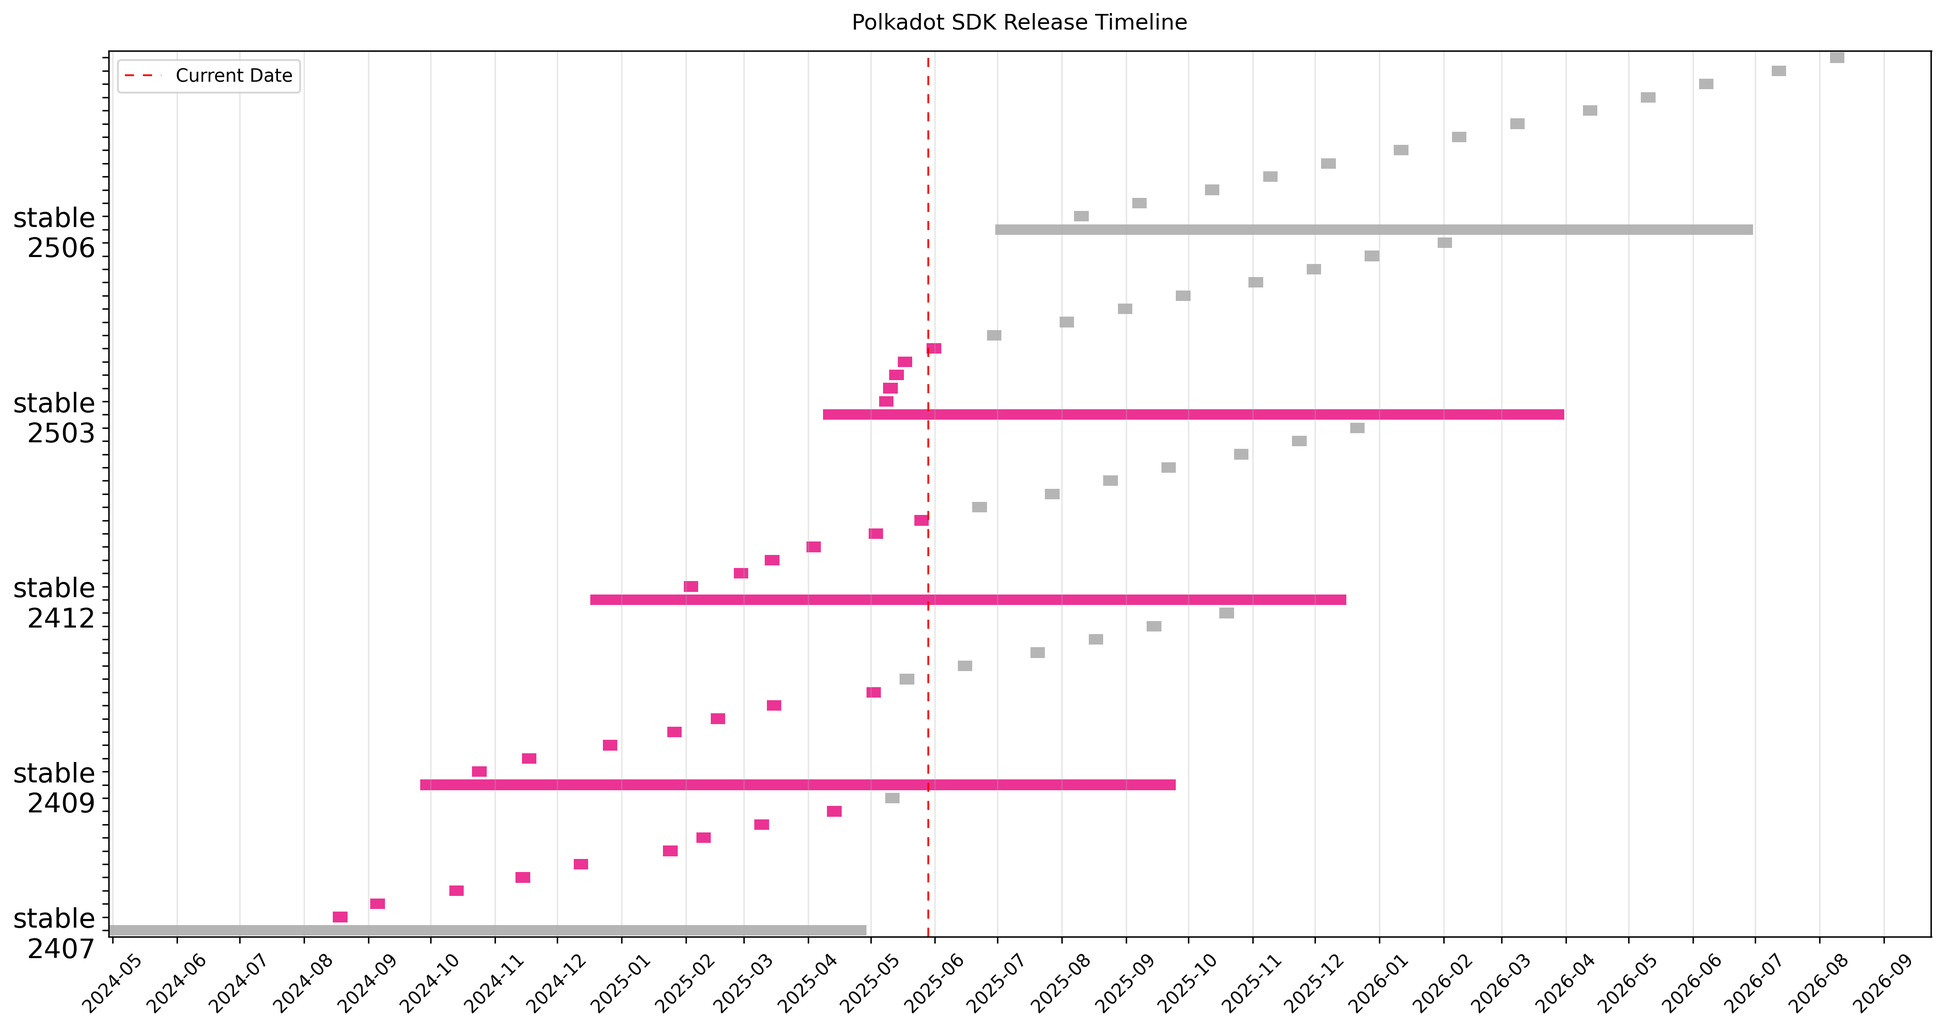
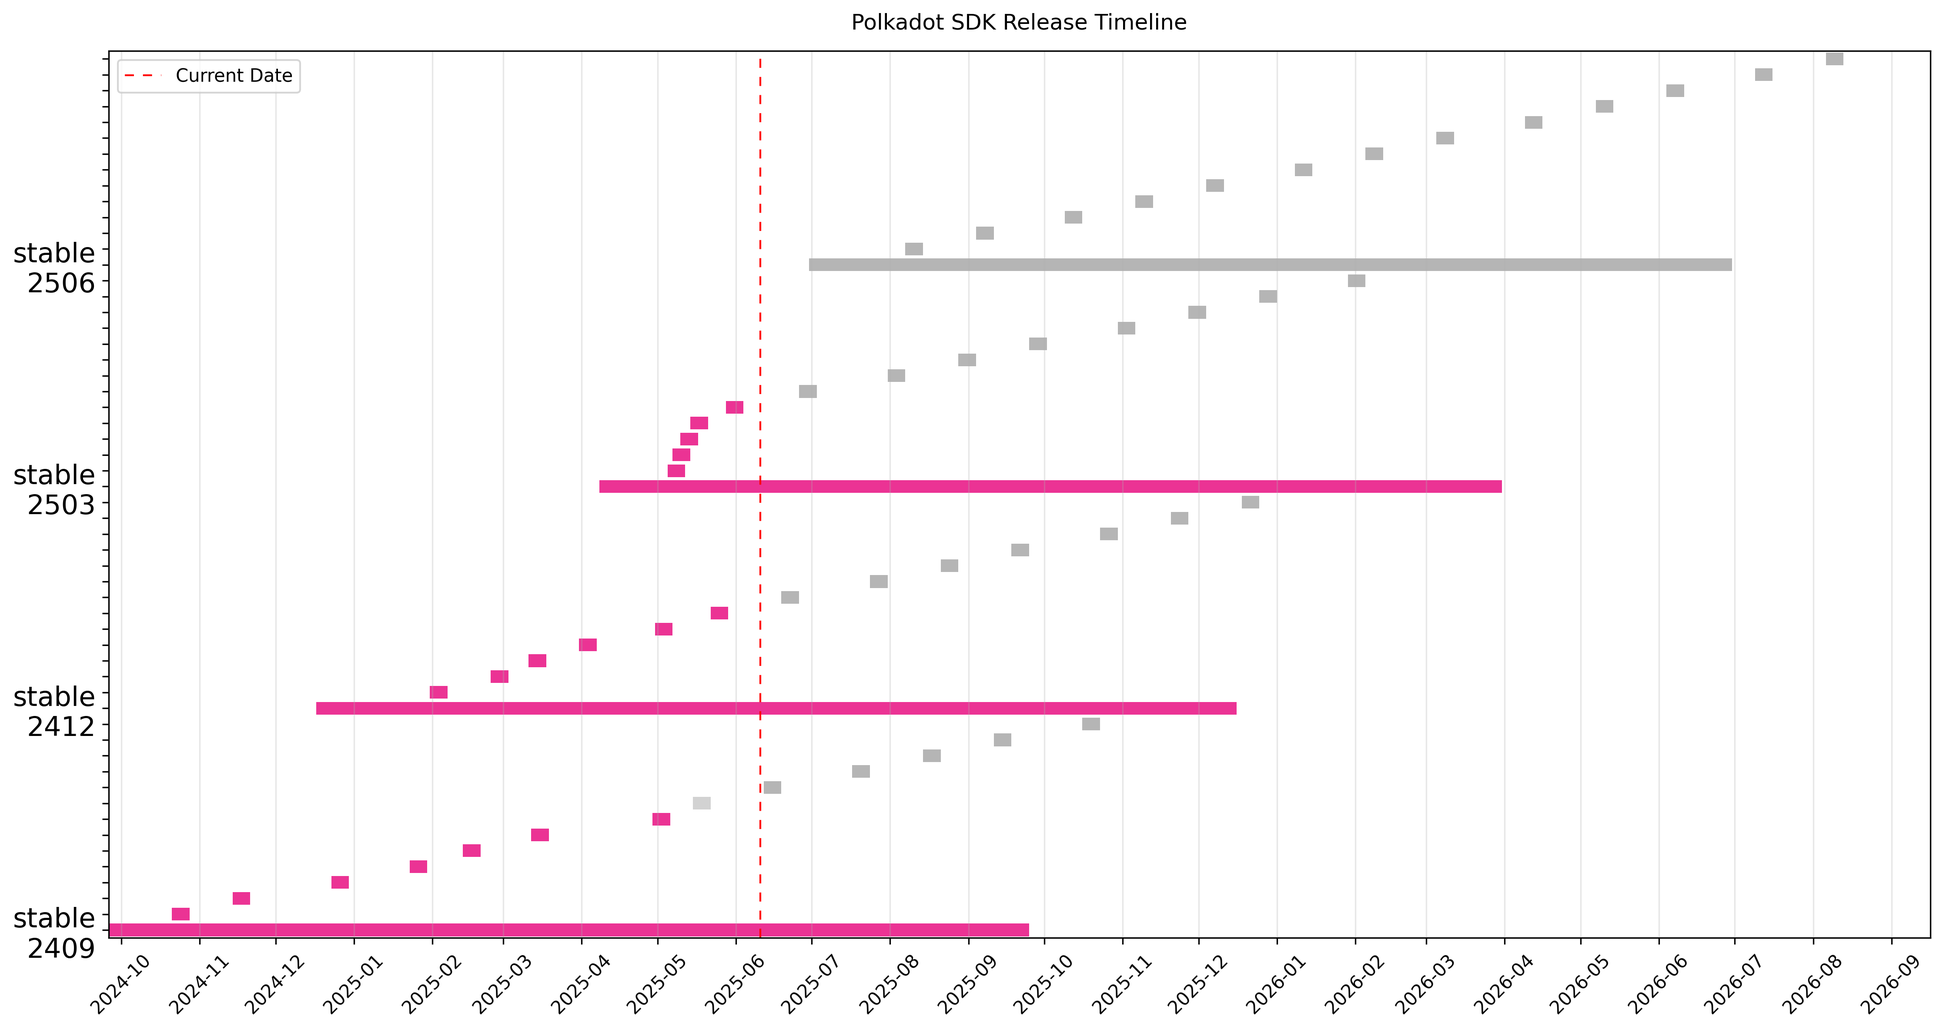
Deprecation support

diff --git a/scripts/update-readme.py b/scripts/update-readme.py
@@ -48,6 +48,10 @@ def generate_row(item: Dict[str, Any], is_patch: bool = False, is_recommended: b
            f"{cutoff} | { publish } | " \
            f"{end_of_life if not is_patch else ''} | {state} |"
 
+def stable_name_to_version(name: str) -> tuple[int, int]:
+    yymm = name.replace('stable', '').split('-')[0]
+    return int(yymm[:2]), int(yymm[2:])
+
 def generate_markdown_table(data: Dict[str, Any], max_patches=3) -> str:
     project_info = data["Polkadot SDK"]
     recommended = project_info['recommended']
@@ -55,6 +59,9 @@ def generate_markdown_table(data: Dict[str, Any], max_patches=3) -> str:
 
     table = "| Version | Cutoff | Publish | End of Life | State |\n" \
             "|---------|--------|-----------|-------------|-------|\n"
+    
+    # Sort releases by version number
+    releases.sort(key=lambda x: stable_name_to_version(x['name']), reverse=True)
 
     for release in releases:
         is_recommended = release['name'] == recommended['release']
@@ -66,7 +73,7 @@ def generate_markdown_table(data: Dict[str, Any], max_patches=3) -> str:
         future_patches = [p for p in patches if isinstance(p['state'], str) and p['state'].lower() == 'planned']
 
         # Handle past patches (newest to oldest)
-        sorted_past_patches = sorted(past_patches, key=lambda x: x['name'])
+        sorted_past_patches = sorted(past_patches, key=lambda x: int(x['name'].split('-')[-1]))
         
         for patch in sorted_past_patches[-max_patches:]:
             is_recommended_patch = is_recommended and patch['name'].split('-')[-1] == recommended.get('patch')

diff --git a/scripts/update-gantt.py b/scripts/update-gantt.py
@@ -18,6 +18,7 @@ COLOR_RELEASED_BAR = '#E6007A'  # released version
 COLOR_RELEASED_PATCH = '#E6007A' # released patch
 COLOR_PLANNED_BAR = '#a3a3a3'   # planned version
 COLOR_PLANNED_PATCH = '#a3a3a3'  # planned patch
+COLOR_SKIPPED_PATCH = '#c7c7c7'  # skipped patch
 COLOR_CURRENT_DATE = '#FF0000'  # current date line
 
 def process_releases(data: Dict) -> tuple[List[Dict], datetime, datetime]:
@@ -29,6 +30,9 @@ def process_releases(data: Dict) -> tuple[List[Dict], datetime, datetime]:
 	releases = sdk_data.get("releases", [])
 	
 	for release in releases:
+		if 'deprecated' in release['state']:
+			continue
+
 		name = release['name']
 		start_date = parse_date(release['publish'])
 		end_date = parse_date(release['endOfLife'])
@@ -54,13 +58,15 @@ def process_releases(data: Dict) -> tuple[List[Dict], datetime, datetime]:
 			patch_end = patch_date + timedelta(days=7)
 			max_date = max(max_date, patch_end)
 			
-			is_planned = isinstance(patch['publish'], dict) and 'estimated' in patch['publish']
+			is_planned = (isinstance(patch['publish'], dict) and 'estimated' in patch['publish']) or (isinstance(patch['state'], dict) and 'deprecated' in patch['state'])
+			is_skipped = patch['state'] == 'skipped'
+			color = COLOR_SKIPPED_PATCH if is_skipped else (COLOR_PLANNED_PATCH if is_planned else COLOR_RELEASED_PATCH)
 			
 			tasks.append({
 				'name': patch['name'].split('-')[1],
 				'start': patch_date,
 				'end': patch_end,
-				'color': COLOR_PLANNED_PATCH if is_planned else COLOR_RELEASED_PATCH
+				'color': color
 			})
 	
 	return tasks, min_date, max_date

diff --git a/scripts/manage.py b/scripts/manage.py
@@ -157,6 +157,20 @@ def deprecate_release(data, version, date, use_instead):
             'useInstead': use_instead
         }
     }
+
+    # Also deprecate all patches that were already published.
+    # All unpublished patches should be marked as 'skipped'.
+    for patch in release['patches']:
+        if patch['state'] == 'released':
+            patch['state'] = {
+                'deprecated': {
+                    'since': date,
+                    'useInstead': use_instead
+                }
+            }
+        elif patch['state'] == 'planned':
+            patch['state'] = 'skipped'
+
     return True
 
 def backfill_patches(data, version=None, start_date=None):

diff --git a/CALENDAR.md b/CALENDAR.md
@@ -8,59 +8,6 @@ Full untruncated version index.
 
 | Version | Cutoff | Publish | End of Life | State |
 |---------|--------|-----------|-------------|-------|
-| **stable2407** | 2024-04-29 | 2024-04-29 | 2025-04-29 | ~~[Deprecated](https://github.com/paritytech/polkadot-sdk/releases/tag/polkadot-stable2407)~~ |
-| &nbsp;&nbsp;stable2407-1 | 2024-08-14 | 2024-08-15 |  | [Released](https://github.com/paritytech/polkadot-sdk/releases/tag/polkadot-stable2407-1) |
-| &nbsp;&nbsp;stable2407-2 | 2024-08-28 | 2024-09-02 |  | [Released](https://github.com/paritytech/polkadot-sdk/releases/tag/polkadot-stable2407-2) |
-| &nbsp;&nbsp;stable2407-3 | 2024-10-10 | 2024-10-10 |  | [Released](https://github.com/paritytech/polkadot-sdk/releases/tag/polkadot-stable2407-3) |
-| &nbsp;&nbsp;stable2407-4 | 2024-11-11 | 2024-11-11 |  | [Released](https://github.com/paritytech/polkadot-sdk/releases/tag/polkadot-stable2407-4) |
-| &nbsp;&nbsp;stable2407-5 | 2024-12-02 | 2024-12-09 |  | [Released](https://github.com/paritytech/polkadot-sdk/releases/tag/polkadot-stable2407-5) |
-| &nbsp;&nbsp;stable2407-6 | 2025-01-21 | 2025-01-21 |  | [Released](https://github.com/paritytech/polkadot-sdk/releases/tag/polkadot-stable2407-6) |
-| &nbsp;&nbsp;stable2407-7 | 2025-02-06 | 2025-02-06 |  | [Released](https://github.com/paritytech/polkadot-sdk/releases/tag/polkadot-stable2407-7) |
-| &nbsp;&nbsp;stable2407-8 | 2025-03-06 | 2025-03-06 |  | [Released](https://github.com/paritytech/polkadot-sdk/releases/tag/polkadot-stable2407-8) |
-| &nbsp;&nbsp;stable2407-9 | 2025-04-10 | 2025-04-10 |  | [Released](https://github.com/paritytech/polkadot-sdk/releases/tag/polkadot-stable2407-9) |
-| &nbsp;&nbsp;stable2407-10 | 2025-05-05 | 2025-05-08 |  | Planned |
-| **stable2409** | 2024-09-02 | 2024-09-26 | 2025-09-25 | [Released](https://github.com/paritytech/polkadot-sdk/releases/tag/polkadot-stable2409) |
-| &nbsp;&nbsp;stable2409-1 | 2024-10-21 | 2024-10-21 |  | [Released](https://github.com/paritytech/polkadot-sdk/releases/tag/polkadot-stable2409-1) |
-| &nbsp;&nbsp;stable2409-2 | 2024-11-14 | 2024-11-14 |  | [Released](https://github.com/paritytech/polkadot-sdk/releases/tag/polkadot-stable2409-2) |
-| &nbsp;&nbsp;stable2409-3 | 2024-12-23 | 2024-12-23 |  | [Released](https://github.com/paritytech/polkadot-sdk/releases/tag/polkadot-stable2409-3) |
-| &nbsp;&nbsp;stable2409-4 | 2025-01-23 | 2025-01-23 |  | [Released](https://github.com/paritytech/polkadot-sdk/releases/tag/polkadot-stable2409-4) |
-| &nbsp;&nbsp;stable2409-5 | 2025-02-13 | 2025-02-13 |  | [Released](https://github.com/paritytech/polkadot-sdk/releases/tag/polkadot-stable2409-5) |
-| &nbsp;&nbsp;stable2409-6 | 2025-03-12 | 2025-03-12 |  | [Released](https://github.com/paritytech/polkadot-sdk/releases/tag/polkadot-stable2409-6) |
-| &nbsp;&nbsp;stable2409-7 | 2025-04-29 | 2025-04-29 |  | [Released](https://github.com/paritytech/polkadot-sdk/releases/tag/polkadot-stable2409-7) |
-| &nbsp;&nbsp;stable2409-8 | 2025-05-12 | 2025-05-15 |  | Skipped |
-| &nbsp;&nbsp;stable2409-9 | 2025-06-09 | 2025-06-12 |  | Planned |
-| &nbsp;&nbsp;stable2409-10 | 2025-07-14 | 2025-07-17 |  | Planned |
-| &nbsp;&nbsp;stable2409-11 | 2025-08-11 | 2025-08-14 |  | Planned |
-| &nbsp;&nbsp;stable2409-12 | 2025-09-08 | 2025-09-11 |  | Planned |
-| &nbsp;&nbsp;stable2409-13 | 2025-10-13 | 2025-10-16 |  | Planned |
-| **stable2412** | 2024-11-06 | 2024-12-17 | 2025-12-16 | [Released](https://github.com/paritytech/polkadot-sdk/releases/tag/polkadot-stable2412) |
-| &nbsp;&nbsp;stable2412-1 | 2025-01-29 | 2025-01-31 |  | [Released](https://github.com/paritytech/polkadot-sdk/releases/tag/polkadot-stable2412-1) |
-| &nbsp;&nbsp;stable2412-2 | 2025-02-21 | 2025-02-24 |  | [Released](https://github.com/paritytech/polkadot-sdk/releases/tag/polkadot-stable2412-2) |
-| &nbsp;&nbsp;stable2412-3 | 2025-03-11 | 2025-03-11 |  | [Released](https://github.com/paritytech/polkadot-sdk/releases/tag/polkadot-stable2412-3) |
-| &nbsp;&nbsp;stable2412-4 | 2025-03-11 | 2025-03-31 |  | [Released](https://github.com/paritytech/polkadot-sdk/releases/tag/polkadot-stable2412-4) |
-| &nbsp;&nbsp;stable2412-5 | 2025-04-30 | 2025-04-30 |  | [Released](https://github.com/paritytech/polkadot-sdk/releases/tag/polkadot-stable2412-5) |
-| &nbsp;&nbsp;stable2412-6 | 2025-05-22 | 2025-05-22 |  | [Released](https://github.com/paritytech/polkadot-sdk/releases/tag/polkadot-stable2412-6) |
-| &nbsp;&nbsp;stable2412-7 | 2025-06-16 | 2025-06-19 |  | Planned |
-| &nbsp;&nbsp;stable2412-8 | 2025-07-21 | 2025-07-24 |  | Planned |
-| &nbsp;&nbsp;stable2412-9 | 2025-08-18 | 2025-08-21 |  | Planned |
-| &nbsp;&nbsp;stable2412-10 | 2025-09-15 | 2025-09-18 |  | Planned |
-| &nbsp;&nbsp;stable2412-11 | 2025-10-20 | 2025-10-23 |  | Planned |
-| &nbsp;&nbsp;stable2412-12 | 2025-11-17 | 2025-11-20 |  | Planned |
-| &nbsp;&nbsp;stable2412-13 | 2025-12-15 | 2025-12-18 |  | Planned |
-| **stable2503** | 2025-02-17 | 2025-04-08 | 2026-03-31 | [Released](https://github.com/paritytech/polkadot-sdk/releases/tag/polkadot-stable2503) |
-| &nbsp;&nbsp;stable2503-1 | 2025-05-05 | 2025-05-05 |  | [Released](https://github.com/paritytech/polkadot-sdk/releases/tag/polkadot-stable2503-1) |
-| &nbsp;&nbsp;stable2503-2 | 2025-05-07 | 2025-05-07 |  | [Released](https://github.com/paritytech/polkadot-sdk/releases/tag/polkadot-stable2503-2) |
-| &nbsp;&nbsp;stable2503-3 | 2025-05-10 | 2025-05-10 |  | [Released](https://github.com/paritytech/polkadot-sdk/releases/tag/polkadot-stable2503-3) |
-| &nbsp;&nbsp;stable2503-4 | 2025-05-14 | 2025-05-14 |  | [Released](https://github.com/paritytech/polkadot-sdk/releases/tag/polkadot-stable2503-4) |
-| &nbsp;&nbsp;stable2503-5 | 2025-05-28 | 2025-05-28 |  | [Released](https://github.com/paritytech/polkadot-sdk/releases/tag/polkadot-stable2503-5) |
-| &nbsp;&nbsp;stable2503-6 | 2025-06-23 | 2025-06-26 |  | Planned |
-| &nbsp;&nbsp;stable2503-7 | 2025-07-28 | 2025-07-31 |  | Planned |
-| &nbsp;&nbsp;stable2503-8 | 2025-08-25 | 2025-08-28 |  | Planned |
-| &nbsp;&nbsp;stable2503-9 | 2025-09-22 | 2025-09-25 |  | Planned |
-| &nbsp;&nbsp;stable2503-10 | 2025-10-27 | 2025-10-30 |  | Planned |
-| &nbsp;&nbsp;stable2503-11 | 2025-11-24 | 2025-11-27 |  | Planned |
-| &nbsp;&nbsp;stable2503-12 | 2025-12-22 | 2025-12-25 |  | Planned |
-| &nbsp;&nbsp;stable2503-13 | 2026-01-26 | 2026-01-29 |  | Planned |
 | **stable2506** | 2025-05-15 | 2025-06-30 | 2026-06-30 | Planned |
 | &nbsp;&nbsp;stable2506-1 | 2025-08-04 | 2025-08-07 |  | Planned |
 | &nbsp;&nbsp;stable2506-2 | 2025-09-01 | 2025-09-04 |  | Planned |
@@ -75,5 +22,58 @@ Full untruncated version index.
 | &nbsp;&nbsp;stable2506-11 | 2026-06-01 | 2026-06-04 |  | Planned |
 | &nbsp;&nbsp;stable2506-12 | 2026-07-06 | 2026-07-09 |  | Planned |
 | &nbsp;&nbsp;stable2506-13 | 2026-08-03 | 2026-08-06 |  | Planned |
+| **stable2503** | 2025-02-17 | 2025-04-08 | 2026-03-31 | [Released](https://github.com/paritytech/polkadot-sdk/releases/tag/polkadot-stable2503) |
+| &nbsp;&nbsp;stable2503-1 | 2025-05-05 | 2025-05-05 |  | [Released](https://github.com/paritytech/polkadot-sdk/releases/tag/polkadot-stable2503-1) |
+| &nbsp;&nbsp;stable2503-2 | 2025-05-07 | 2025-05-07 |  | [Released](https://github.com/paritytech/polkadot-sdk/releases/tag/polkadot-stable2503-2) |
+| &nbsp;&nbsp;stable2503-3 | 2025-05-10 | 2025-05-10 |  | [Released](https://github.com/paritytech/polkadot-sdk/releases/tag/polkadot-stable2503-3) |
+| &nbsp;&nbsp;stable2503-4 | 2025-05-14 | 2025-05-14 |  | [Released](https://github.com/paritytech/polkadot-sdk/releases/tag/polkadot-stable2503-4) |
+| &nbsp;&nbsp;stable2503-5 | 2025-05-28 | 2025-05-28 |  | [Released](https://github.com/paritytech/polkadot-sdk/releases/tag/polkadot-stable2503-5) |
+| &nbsp;&nbsp;stable2503-6 | 2025-06-23 | 2025-06-26 |  | Planned |
+| &nbsp;&nbsp;stable2503-7 | 2025-07-28 | 2025-07-31 |  | Planned |
+| &nbsp;&nbsp;stable2503-8 | 2025-08-25 | 2025-08-28 |  | Planned |
+| &nbsp;&nbsp;stable2503-9 | 2025-09-22 | 2025-09-25 |  | Planned |
+| &nbsp;&nbsp;stable2503-10 | 2025-10-27 | 2025-10-30 |  | Planned |
+| &nbsp;&nbsp;stable2503-11 | 2025-11-24 | 2025-11-27 |  | Planned |
+| &nbsp;&nbsp;stable2503-12 | 2025-12-22 | 2025-12-25 |  | Planned |
+| &nbsp;&nbsp;stable2503-13 | 2026-01-26 | 2026-01-29 |  | Planned |
+| **stable2412** | 2024-11-06 | 2024-12-17 | 2025-12-16 | [Released](https://github.com/paritytech/polkadot-sdk/releases/tag/polkadot-stable2412) |
+| &nbsp;&nbsp;stable2412-1 | 2025-01-29 | 2025-01-31 |  | [Released](https://github.com/paritytech/polkadot-sdk/releases/tag/polkadot-stable2412-1) |
+| &nbsp;&nbsp;stable2412-2 | 2025-02-21 | 2025-02-24 |  | [Released](https://github.com/paritytech/polkadot-sdk/releases/tag/polkadot-stable2412-2) |
+| &nbsp;&nbsp;stable2412-3 | 2025-03-11 | 2025-03-11 |  | [Released](https://github.com/paritytech/polkadot-sdk/releases/tag/polkadot-stable2412-3) |
+| &nbsp;&nbsp;stable2412-4 | 2025-03-11 | 2025-03-31 |  | [Released](https://github.com/paritytech/polkadot-sdk/releases/tag/polkadot-stable2412-4) |
+| &nbsp;&nbsp;stable2412-5 | 2025-04-30 | 2025-04-30 |  | [Released](https://github.com/paritytech/polkadot-sdk/releases/tag/polkadot-stable2412-5) |
+| &nbsp;&nbsp;stable2412-6 | 2025-05-22 | 2025-05-22 |  | [Released](https://github.com/paritytech/polkadot-sdk/releases/tag/polkadot-stable2412-6) |
+| &nbsp;&nbsp;stable2412-7 | 2025-06-16 | 2025-06-19 |  | Planned |
+| &nbsp;&nbsp;stable2412-8 | 2025-07-21 | 2025-07-24 |  | Planned |
+| &nbsp;&nbsp;stable2412-9 | 2025-08-18 | 2025-08-21 |  | Planned |
+| &nbsp;&nbsp;stable2412-10 | 2025-09-15 | 2025-09-18 |  | Planned |
+| &nbsp;&nbsp;stable2412-11 | 2025-10-20 | 2025-10-23 |  | Planned |
+| &nbsp;&nbsp;stable2412-12 | 2025-11-17 | 2025-11-20 |  | Planned |
+| &nbsp;&nbsp;stable2412-13 | 2025-12-15 | 2025-12-18 |  | Planned |
+| **stable2409** | 2024-09-02 | 2024-09-26 | 2025-09-25 | [Released](https://github.com/paritytech/polkadot-sdk/releases/tag/polkadot-stable2409) |
+| &nbsp;&nbsp;stable2409-1 | 2024-10-21 | 2024-10-21 |  | [Released](https://github.com/paritytech/polkadot-sdk/releases/tag/polkadot-stable2409-1) |
+| &nbsp;&nbsp;stable2409-2 | 2024-11-14 | 2024-11-14 |  | [Released](https://github.com/paritytech/polkadot-sdk/releases/tag/polkadot-stable2409-2) |
+| &nbsp;&nbsp;stable2409-3 | 2024-12-23 | 2024-12-23 |  | [Released](https://github.com/paritytech/polkadot-sdk/releases/tag/polkadot-stable2409-3) |
+| &nbsp;&nbsp;stable2409-4 | 2025-01-23 | 2025-01-23 |  | [Released](https://github.com/paritytech/polkadot-sdk/releases/tag/polkadot-stable2409-4) |
+| &nbsp;&nbsp;stable2409-5 | 2025-02-13 | 2025-02-13 |  | [Released](https://github.com/paritytech/polkadot-sdk/releases/tag/polkadot-stable2409-5) |
+| &nbsp;&nbsp;stable2409-6 | 2025-03-12 | 2025-03-12 |  | [Released](https://github.com/paritytech/polkadot-sdk/releases/tag/polkadot-stable2409-6) |
+| &nbsp;&nbsp;stable2409-7 | 2025-04-29 | 2025-04-29 |  | [Released](https://github.com/paritytech/polkadot-sdk/releases/tag/polkadot-stable2409-7) |
+| &nbsp;&nbsp;stable2409-8 | 2025-05-12 | 2025-05-15 |  | Skipped |
+| &nbsp;&nbsp;stable2409-9 | 2025-06-09 | 2025-06-12 |  | Planned |
+| &nbsp;&nbsp;stable2409-10 | 2025-07-14 | 2025-07-17 |  | Planned |
+| &nbsp;&nbsp;stable2409-11 | 2025-08-11 | 2025-08-14 |  | Planned |
+| &nbsp;&nbsp;stable2409-12 | 2025-09-08 | 2025-09-11 |  | Planned |
+| &nbsp;&nbsp;stable2409-13 | 2025-10-13 | 2025-10-16 |  | Planned |
+| **stable2407** | 2024-04-29 | 2024-04-29 | 2025-04-29 | ~~[Deprecated](https://github.com/paritytech/polkadot-sdk/releases/tag/polkadot-stable2407)~~ |
+| &nbsp;&nbsp;stable2407-1 | 2024-08-14 | 2024-08-15 |  | ~~[Deprecated](https://github.com/paritytech/polkadot-sdk/releases/tag/polkadot-stable2407-1)~~ |
+| &nbsp;&nbsp;stable2407-2 | 2024-08-28 | 2024-09-02 |  | ~~[Deprecated](https://github.com/paritytech/polkadot-sdk/releases/tag/polkadot-stable2407-2)~~ |
+| &nbsp;&nbsp;stable2407-3 | 2024-10-10 | 2024-10-10 |  | ~~[Deprecated](https://github.com/paritytech/polkadot-sdk/releases/tag/polkadot-stable2407-3)~~ |
+| &nbsp;&nbsp;stable2407-4 | 2024-11-11 | 2024-11-11 |  | ~~[Deprecated](https://github.com/paritytech/polkadot-sdk/releases/tag/polkadot-stable2407-4)~~ |
+| &nbsp;&nbsp;stable2407-5 | 2024-12-02 | 2024-12-09 |  | ~~[Deprecated](https://github.com/paritytech/polkadot-sdk/releases/tag/polkadot-stable2407-5)~~ |
+| &nbsp;&nbsp;stable2407-6 | 2025-01-21 | 2025-01-21 |  | ~~[Deprecated](https://github.com/paritytech/polkadot-sdk/releases/tag/polkadot-stable2407-6)~~ |
+| &nbsp;&nbsp;stable2407-7 | 2025-02-06 | 2025-02-06 |  | ~~[Deprecated](https://github.com/paritytech/polkadot-sdk/releases/tag/polkadot-stable2407-7)~~ |
+| &nbsp;&nbsp;stable2407-8 | 2025-03-06 | 2025-03-06 |  | ~~[Deprecated](https://github.com/paritytech/polkadot-sdk/releases/tag/polkadot-stable2407-8)~~ |
+| &nbsp;&nbsp;stable2407-9 | 2025-04-10 | 2025-04-10 |  | ~~[Deprecated](https://github.com/paritytech/polkadot-sdk/releases/tag/polkadot-stable2407-9)~~ |
+| &nbsp;&nbsp;stable2407-10 | 2025-05-05 | 2025-05-08 |  | Skipped |
 
 <!-- TEMPLATE END -->

diff --git a/README.md b/README.md
@@ -20,33 +20,32 @@ Planned and historic release dates:
 
 | Version | Cutoff | Publish | End of Life | State |
 |---------|--------|-----------|-------------|-------|
-| **stable2407** | 2024-04-29 | 2024-04-29 | 2025-04-29 | ~~[Deprecated](https://github.com/paritytech/polkadot-sdk/releases/tag/polkadot-stable2407)~~ |
-| &nbsp;&nbsp;stable2407-8 | 2025-03-06 | 2025-03-06 |  | [Released](https://github.com/paritytech/polkadot-sdk/releases/tag/polkadot-stable2407-8) |
-| &nbsp;&nbsp;stable2407-9 | 2025-04-10 | 2025-04-10 |  | [Released](https://github.com/paritytech/polkadot-sdk/releases/tag/polkadot-stable2407-9) |
-| &nbsp;&nbsp;stable2407-10 | 2025-05-05 | 2025-05-08 |  | Planned |
-| &nbsp;&nbsp;[7 more past](CALENDAR.md) |  |  | | |
-| **stable2409** | 2024-09-02 | 2024-09-26 | 2025-09-25 | [Released](https://github.com/paritytech/polkadot-sdk/releases/tag/polkadot-stable2409) |
-| &nbsp;&nbsp;stable2409-7 | 2025-04-29 | 2025-04-29 |  | [Released](https://github.com/paritytech/polkadot-sdk/releases/tag/polkadot-stable2409-7) |
-| &nbsp;&nbsp;stable2409-8 | 2025-05-12 | 2025-05-15 |  | Skipped |
-| &nbsp;&nbsp;stable2409-9 | 2025-06-09 | 2025-06-12 |  | Planned |
-| &nbsp;&nbsp;stable2409-10 | 2025-07-14 | 2025-07-17 |  | Planned |
-| &nbsp;&nbsp;[6 more past, 3 more planned](CALENDAR.md) |  |  | | |
-| **stable2412** | 2024-11-06 | 2024-12-17 | 2025-12-16 | [Released](https://github.com/paritytech/polkadot-sdk/releases/tag/polkadot-stable2412) |
-| &nbsp;&nbsp;stable2412-5 | 2025-04-30 | 2025-04-30 |  | [Released](https://github.com/paritytech/polkadot-sdk/releases/tag/polkadot-stable2412-5) |
-| &nbsp;&nbsp;stable2412-6 | 2025-05-22 | 2025-05-22 |  | [Released](https://github.com/paritytech/polkadot-sdk/releases/tag/polkadot-stable2412-6) |
-| &nbsp;&nbsp;stable2412-7 | 2025-06-16 | 2025-06-19 |  | Planned |
-| &nbsp;&nbsp;stable2412-8 | 2025-07-21 | 2025-07-24 |  | Planned |
-| &nbsp;&nbsp;[4 more past, 5 more planned](CALENDAR.md) |  |  | | |
+| **stable2506** | 2025-05-15 | 2025-06-30 | 2026-06-30 | Planned |
+| &nbsp;&nbsp;stable2506-1 | 2025-08-04 | 2025-08-07 |  | Planned |
+| &nbsp;&nbsp;stable2506-2 | 2025-09-01 | 2025-09-04 |  | Planned |
+| &nbsp;&nbsp;[11 more planned](CALENDAR.md) |  |  | | |
 | **stable2503** | 2025-02-17 | 2025-04-08 | 2026-03-31 | [Released](https://github.com/paritytech/polkadot-sdk/releases/tag/polkadot-stable2503) |
 | &nbsp;&nbsp;stable2503-4 | 2025-05-14 | 2025-05-14 |  | [Released](https://github.com/paritytech/polkadot-sdk/releases/tag/polkadot-stable2503-4) |
 | &nbsp;&nbsp;stable2503-5 | 2025-05-28 | 2025-05-28 |  | [Released](https://github.com/paritytech/polkadot-sdk/releases/tag/polkadot-stable2503-5) |
 | &nbsp;&nbsp;stable2503-6 | 2025-06-23 | 2025-06-26 |  | Planned |
 | &nbsp;&nbsp;stable2503-7 | 2025-07-28 | 2025-07-31 |  | Planned |
 | &nbsp;&nbsp;[3 more past, 6 more planned](CALENDAR.md) |  |  | | |
-| **stable2506** | 2025-05-15 | 2025-06-30 | 2026-06-30 | Planned |
-| &nbsp;&nbsp;stable2506-1 | 2025-08-04 | 2025-08-07 |  | Planned |
-| &nbsp;&nbsp;stable2506-2 | 2025-09-01 | 2025-09-04 |  | Planned |
-| &nbsp;&nbsp;[11 more planned](CALENDAR.md) |  |  | | |
+| **stable2412** | 2024-11-06 | 2024-12-17 | 2025-12-16 | [Released](https://github.com/paritytech/polkadot-sdk/releases/tag/polkadot-stable2412) |
+| &nbsp;&nbsp;stable2412-5 | 2025-04-30 | 2025-04-30 |  | [Released](https://github.com/paritytech/polkadot-sdk/releases/tag/polkadot-stable2412-5) |
+| &nbsp;&nbsp;stable2412-6 | 2025-05-22 | 2025-05-22 |  | [Released](https://github.com/paritytech/polkadot-sdk/releases/tag/polkadot-stable2412-6) |
+| &nbsp;&nbsp;stable2412-7 | 2025-06-16 | 2025-06-19 |  | Planned |
+| &nbsp;&nbsp;stable2412-8 | 2025-07-21 | 2025-07-24 |  | Planned |
+| &nbsp;&nbsp;[4 more past, 5 more planned](CALENDAR.md) |  |  | | |
+| **stable2409** | 2024-09-02 | 2024-09-26 | 2025-09-25 | [Released](https://github.com/paritytech/polkadot-sdk/releases/tag/polkadot-stable2409) |
+| &nbsp;&nbsp;stable2409-7 | 2025-04-29 | 2025-04-29 |  | [Released](https://github.com/paritytech/polkadot-sdk/releases/tag/polkadot-stable2409-7) |
+| &nbsp;&nbsp;stable2409-8 | 2025-05-12 | 2025-05-15 |  | Skipped |
+| &nbsp;&nbsp;stable2409-9 | 2025-06-09 | 2025-06-12 |  | Planned |
+| &nbsp;&nbsp;stable2409-10 | 2025-07-14 | 2025-07-17 |  | Planned |
+| &nbsp;&nbsp;[6 more past, 3 more planned](CALENDAR.md) |  |  | | |
+| **stable2407** | 2024-04-29 | 2024-04-29 | 2025-04-29 | ~~[Deprecated](https://github.com/paritytech/polkadot-sdk/releases/tag/polkadot-stable2407)~~ |
+| &nbsp;&nbsp;stable2407-9 | 2025-04-10 | 2025-04-10 |  | ~~[Deprecated](https://github.com/paritytech/polkadot-sdk/releases/tag/polkadot-stable2407-9)~~ |
+| &nbsp;&nbsp;stable2407-10 | 2025-05-05 | 2025-05-08 |  | Skipped |
+| &nbsp;&nbsp;[8 more past](CALENDAR.md) |  |  | | |
 
 <!-- TEMPLATE END -->
 
